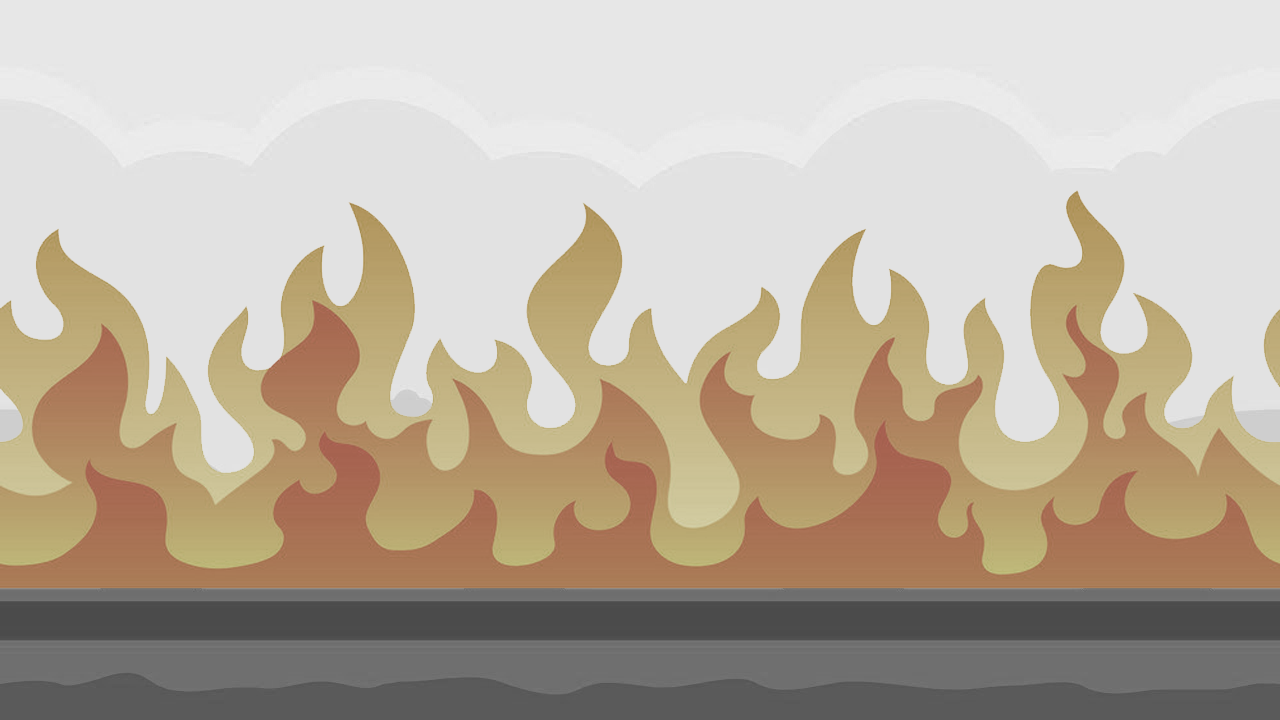
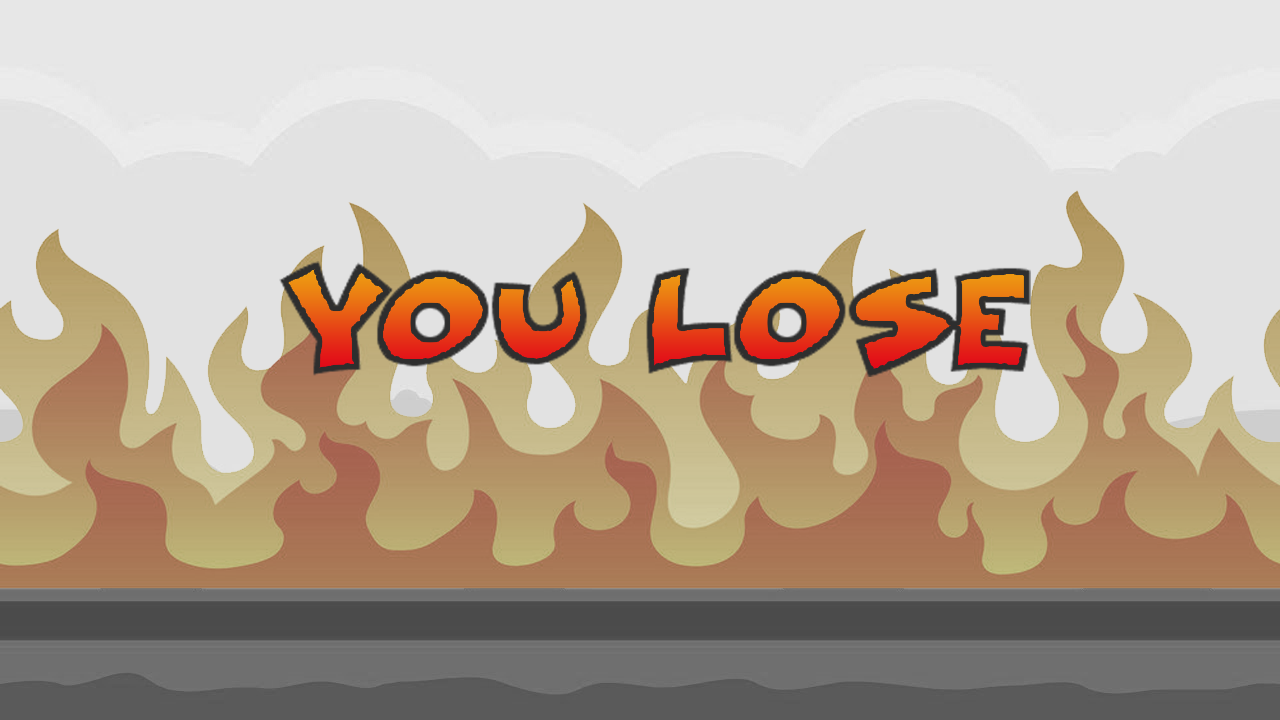
-small edit

Changed region(s): [[0.5, 0.3667, 0.8125, 0.5194], [0.2188, 0.3667, 0.4688, 0.5194]]

diff --git a/Classes/WinMenu.cpp b/Classes/WinMenu.cpp
@@ -215,6 +215,24 @@ bool WinMenu::init()
                                         }
                                     });
     this->addChild(fbButton, 2);
+
+	auto Start = Button::create("Exit.png", "ExitPress.png");
+	Start->setPosition(Vec2(origin.x + visibleSize.width / 2,
+		(origin.y + visibleSize.height - Exit->getContentSize().height) / 5.5));
+	Start->addTouchEventListener([&](Ref* sender, Widget::TouchEventType type)
+	{
+		switch (type)
+		{
+		case Widget::TouchEventType::BEGAN:
+			break;
+		case Widget::TouchEventType::ENDED:
+			SceneManager::GetInstance()->RunSceneWithType(SceneType::MAINMENU, TransitionType::CROSSFADE);
+			break;
+		default:
+			break;
+		}
+	});
+	this->addChild(Start, 2);
     /////////////////////////////
     // 2. add a menu item with "X" image, which is clicked to quit the program
     //    you may modify it.

diff --git a/Classes/LoseMenu.cpp b/Classes/LoseMenu.cpp
@@ -181,6 +181,24 @@ bool LoseMenu::init()
 		return true;
 	};
 	_eventDispatcher->addEventListenerWithSceneGraphPriority(touchListener, this);
+
+	auto Start = Button::create("Exit.png", "ExitPress.png");
+	Start->setPosition(Vec2(origin.x + visibleSize.width / 2,
+		(origin.y + visibleSize.height - Exit->getContentSize().height) / 5.5));
+	Start->addTouchEventListener([&](Ref* sender, Widget::TouchEventType type)
+	{
+		switch (type)
+		{
+		case Widget::TouchEventType::BEGAN:
+			break;
+		case Widget::TouchEventType::ENDED:
+			SceneManager::GetInstance()->RunSceneWithType(SceneType::MAINMENU, TransitionType::CROSSFADE);
+			break;
+		default:
+			break;
+		}
+	});
+	this->addChild(Start, 2);
     /////////////////////////////
     // 2. add a menu item with "X" image, which is clicked to quit the program
     //    you may modify it.

diff --git a/Classes/HelloWorldScene.cpp b/Classes/HelloWorldScene.cpp
@@ -506,6 +506,10 @@ void HelloWorld::update(float delta)
 
 	progressTimer->setPercentage(Constant::GetInstance()->GetHealth());
 
+	if (Constant::GetInstance()->GetHealth() <= 0)
+	{
+		SceneManager::GetInstance()->RunSceneWithType(SceneType::LOSESCENE, TransitionType::CROSSFADE);
+	}
 	//if (health > 0)
 	//{
 	//	health -= delta * 15;
